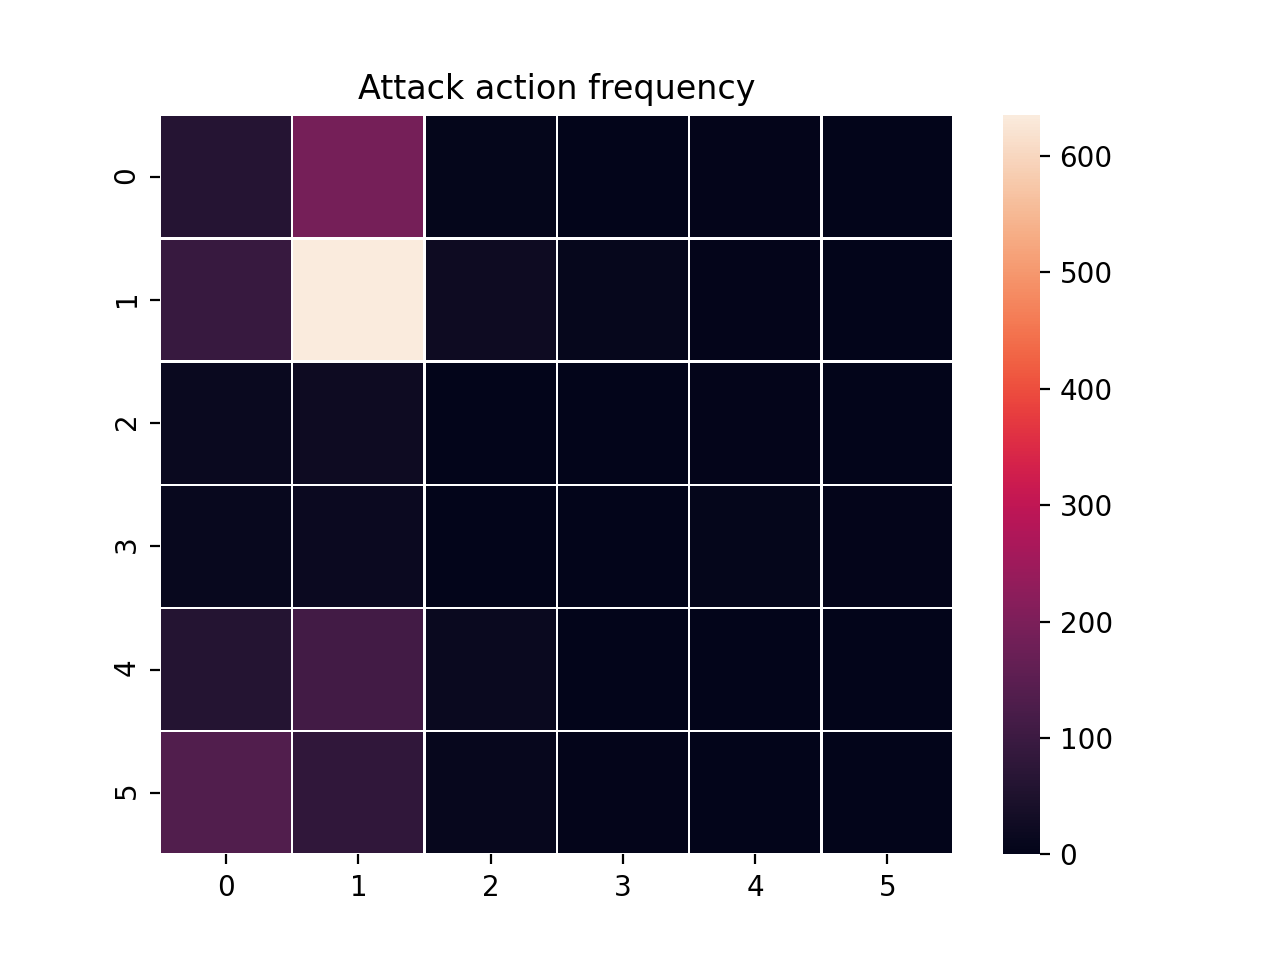
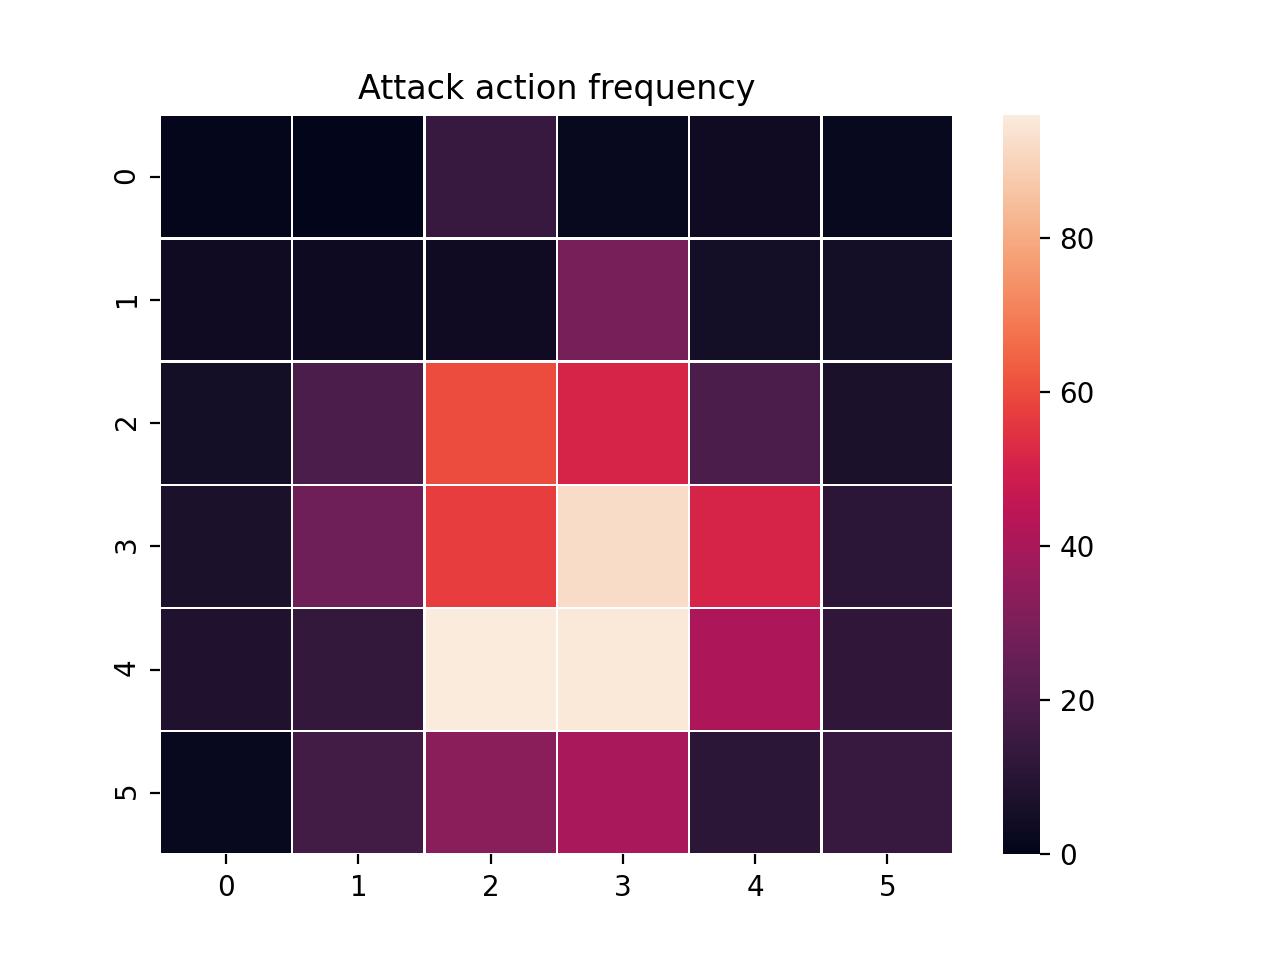
Updated the predator prey example attack map

diff --git a/examples/predator_prey/README.md b/examples/predator_prey/README.md
@@ -117,10 +117,9 @@ tensorboard --logdir ~/admiral_results
 ```
 We can find the rewards associated with the policies on the second page of tensorboard.
 
-![predator_reward](/.images/predator_reward.png)
 
 ### Visualizing
-Having successfully trained predators to hunt prey, we can vizualize the agents'
+Having successfully trained predators to attack prey, we can vizualize the agents'
 learned behavior with the `visualize` command,
 which takes as argument the output directory from the training session stored
 in `~/admiral_results`. For example, the command
@@ -135,14 +134,14 @@ timestamp) and display an animation of 5 episodes. The `--record` flag will
 save the animations as `.mp4` videos in the training directory.
 
 ### Analyzing
-Upon visualizing the trained preator's behavior, we can further investigate the
+We can further investigate the learned
 behaviors using the `analyze` command along with an analysis script.
 
 Analysis scripts implement a `run` command which takes the environment and
 the training agent as input arguments. At this point, the researcher can define any
 script to further investigate the agents' behavior. In this
-example, we will craft a script that records how often a predator visits each grid square and how
-often it attacks from each grid square. This file is
+example, we will craft a script that records how
+often a predator attacks from each grid square. This file is
 [movement_map.py](movement_map.py).
 
 ```python
@@ -197,7 +196,6 @@ We can run it with
 admiral analyze ~/admiral_results/PredatorPrey-2020-08-25_09-30/ movement_map.py
 ```
 
-![position frequency](/.images/position_freq.png)
 ![attack frequency](/.images/attack_freq.png)
 
 The heatmap figures indicate that the predator spends most of its time attacking
